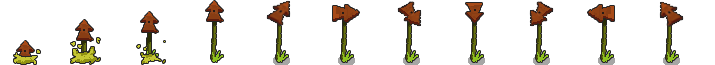
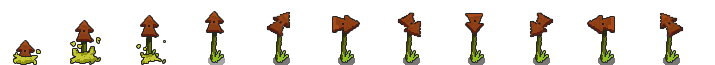
changing Zindex with y

diff --git a/src/js/voodooDoll.js b/src/js/voodooDoll.js
@@ -73,11 +73,23 @@ Crafty.c('VoodooDoll', {
 				//Move unit out of solid tile
 			})
 			.bind('Moved', function(from) {
+				var collide = this.hit('dollGridBounds');
+				if(collide){
+					var collideLength = collide.length;
+					for (var i = 0; i < collideLength; i++) {
+						if (collide[i].type == "SAT")
+						{
+							this.attr({x: from.x, y:from.y});
+						}
+					}
+				}
+				
 				if (this.id == 1) {
 					ETA.config.p1.cellVoodooDool = ETA.grid.getCell(this._x+29, this._y+48).id;
 				}else{
 					ETA.config.p2.cellVoodooDool = ETA.grid.getCell(this._x+29, this._y+48).id;
 				}
+				this.z = this.y;
 				
 				if (this.isPlaying("summon_sign"))
 				{
@@ -108,16 +120,7 @@ Crafty.c('VoodooDoll', {
 						this.walking = "down"
 					}
 				}
-				var collide = this.hit('gridBounds');
-				if(collide){
-					var collideLength = collide.length;
-					for (var i = 0; i < collideLength; i++) {
-						if (collide[i].type == "SAT")
-						{
-							this.attr({x: from.x, y:from.y});
-						}
-					}
-				}
+				
 		
 			})
 			.bind('KeyDown', function(el) {
@@ -144,7 +147,7 @@ Crafty.c('VoodooDoll', {
 	drawSign : function(cell) {
 		if(this._pop < ETA.config.game.nbSign) {
 			if(cell.attribute('sign')) {
-				Crafty.e("Sign, signSprite").attr({x:cell.center.x-25 ,y:cell.center.y-25 , z: 50000, w:50, h:50 }).sign(this.id);
+				Crafty.e("Sign, signSprite").attr({x:cell.center.x-25 ,y:cell.center.y-35 , z: cell.center.y-35, w:65, h:65 }).sign(this.id);
 				this._pop++;
 			}
 		}			

diff --git a/src/js/grid.js b/src/js/grid.js
@@ -7,7 +7,7 @@ Crafty.c('BGGrid', {
 		cells = [];
 		cells[0] = [];
 		background = Crafty.e("2D, DOM, bg")
-			.attr({ x:0 , y:0, z:1 });
+			.attr({ x:0 , y:0, z:-1 });
 		return this;
 	},
 	grid: function(w, h){
@@ -37,14 +37,22 @@ Crafty.c('BGGrid', {
 			.color('rgb(30,150,30)')
 			.attr({ x:ETA.config.stageWidth-2, y:30 , w:2, h:ETA.config.stageHeight })
 			.collision();
-		/*Crafty.e("Line, 2D, DOM, gridBounds, Color, Collision")
+		Crafty.e("Line, 2D, DOM, dollGridBounds, Color, Collision")
+			.color('rgb(30,150,30)')
+			.attr({ x:0, y:30 , w:2, h:ETA.config.stageHeight })
+			.collision();
+		Crafty.e("Line, 2D, DOM, dollGridBounds, Color, Collision")
+			.color('rgb(30,150,30)')
+			.attr({ x:ETA.config.stageWidth-2, y:30 , w:2, h:ETA.config.stageHeight })
+			.collision();
+		Crafty.e("Line, 2D, DOM, dollGridBounds, Color, Collision")
 			.color('rgb(30,150,30)')
 			.attr({ x:0, y:29 , w:ETA.config.stageWidth, h:2 })
-			.collision();*/
-		/*Crafty.e("Line, 2D, DOM, gridBounds, Color, Collision")
+			.collision();
+		Crafty.e("Line, 2D, DOM, dollGridBounds, Color, Collision")
 			.color('rgb(30,150,30)')
 			.attr({ x:0, y:ETA.config.stageHeight-2 , w:ETA.config.stageWidth , h:2 })
-			.collision();*/
+			.collision();
 			
 		return this;
 	},

diff --git a/src/js/zombie.js b/src/js/zombie.js
@@ -32,7 +32,7 @@ Crafty.c('Zombie', {
 		return this;
 	},
 	moveZombi: function(){
-		
+		this.z = this.y;
 		if (!this.currentCell)
 			this.currentCell = ETA.grid.getCell(this.x + this.w/2 - 5, this.y + this.h/2+10);
 		var direction = {x:this.x + this.w/2 -5 - this.currentCell.center.x , y:this.y + this.h/2+10 - this.currentCell.center.y};
@@ -64,8 +64,13 @@ Crafty.c('Zombie', {
 			if (dy < 5 && dy > -5)
 			{
 				//check sign
+				//if (this.currentCell.)
+				//{
+					
+				//}
 				//if no sign
-				if (this.currentCell.borderCell)
+				//else
+				 if (this.currentCell.borderCell)
 				{
 					var direction = Crafty.math.randomInt(1, 2);
 					if (direction == 1)
